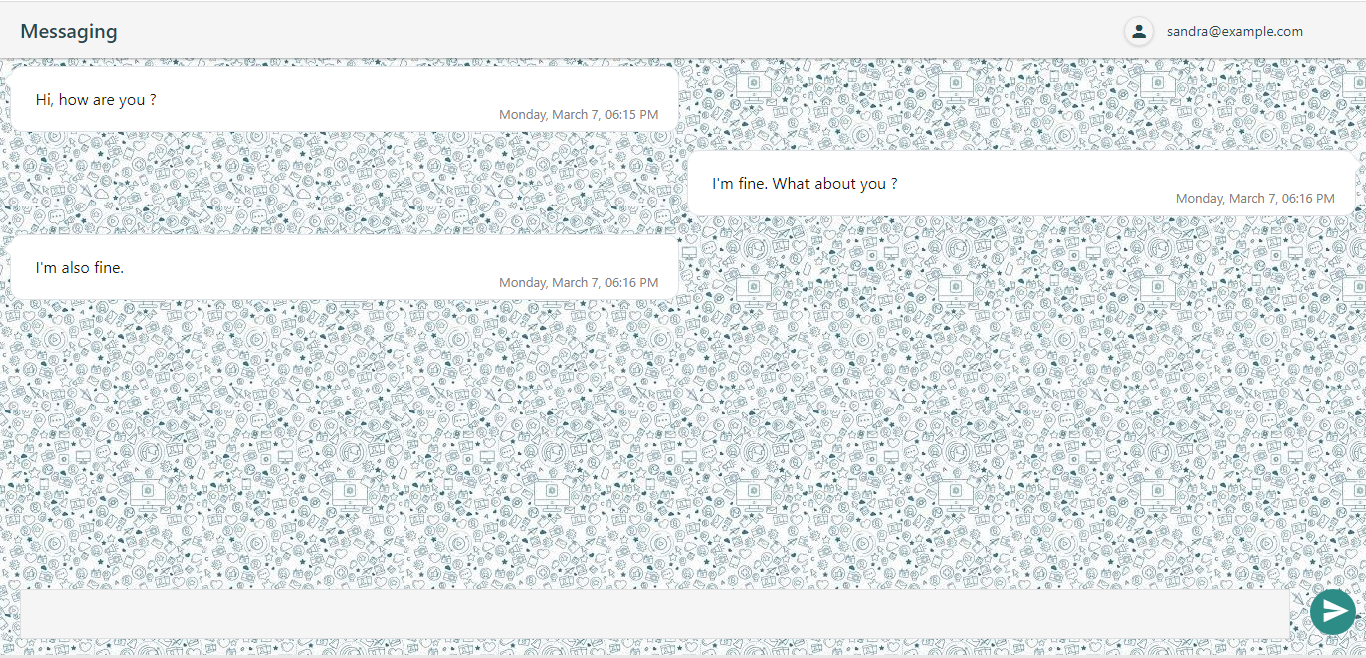
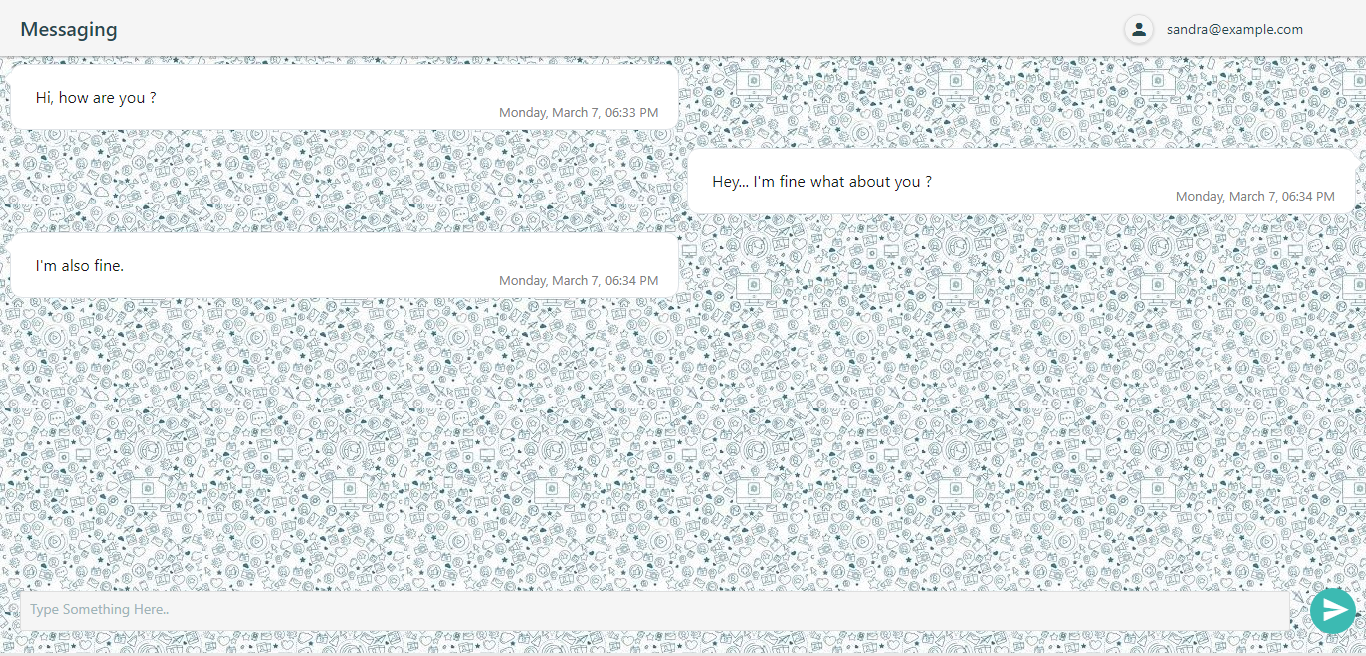
Add Placeholder in dx-text-area

diff --git a/frontend/src/app/pages/home/home.component.scss b/frontend/src/app/pages/home/home.component.scss
@@ -1,164 +1,163 @@
 :host {
-  ::ng-deep .dx-button-has-icon .dx-button-content {
-    padding: 13px !important;
-  }
-
-  ::ng-deep
-    dx-button.dx-widget.dx-button.dx-button-mode-contained.dx-button-default.dx-button-has-icon {
-    border-radius: 50%;
-  }
+     ::ng-deep .dx-button-has-icon .dx-button-content {
+        padding: 13px !important;
+    }
+     ::ng-deep dx-button.dx-widget.dx-button.dx-button-mode-contained.dx-button-default.dx-button-has-icon {
+        border-radius: 50%;
+    }
 }
 
 .dx-button-has-icon .dx-button-content {
-  padding: 103px !important;
+    padding: 103px !important;
 }
 
 .logos-container {
-  margin: 20px 0 40px 0;
-  text-align: center;
-  svg {
-    display: inline-block;
-  }
+    margin: 20px 0 40px 0;
+    text-align: center;
+    svg {
+        display: inline-block;
+    }
 }
 
 .devextreme-logo {
-  width: 200px;
-  height: 34px;
-  margin-bottom: 13px;
+    width: 200px;
+    height: 34px;
+    margin-bottom: 13px;
 }
+
 .messaging {
-  background: url(../../../assets/images/background.jpg);
-  height: calc(100vh - 60px);
-  position: relative;
-  background-attachment: fixed;
-  // overflow-y: hidden;
-  overflow-x: hidden;
+    background: url(../../../assets/images/background.jpg);
+    height: calc(100vh - 60px);
+    position: relative;
+    background-attachment: fixed;
+    // overflow-y: hidden;
+    overflow-x: hidden;
 }
 
 ::ng-deep i.dx-icon.icon.ion-md-send {
-  font-size: 30px;
-  position: relative;
-  top: -7px;
+    font-size: 30px;
+    position: relative;
+    top: -7px;
 }
 
 .angular-logo {
-  width: 220px;
-  height: 62px;
+    width: 220px;
+    height: 62px;
 }
 
 .plus {
-  margin: 15px 10px;
-  width: 22px;
-  height: 22px;
+    margin: 15px 10px;
+    width: 22px;
+    height: 22px;
 }
 
 :host-context(.screen-x-small) .logos-container {
-  svg {
-    width: 100%;
-    display: block;
-    &.plus {
-      margin: 0;
+    svg {
+        width: 100%;
+        display: block;
+        &.plus {
+            margin: 0;
+        }
     }
-  }
 }
 
 .float-bottom {
-  display: flex;
-  position: fixed;
-  z-index: 2;
-  width: 100vw !important;
-  bottom: 0;
-  margin-bottom: 20px;
-  width: calc(100vw - 250px);
-  margin-right: 20px;
+    display: flex;
+    position: fixed;
+    z-index: 2;
+    width: 100vw !important;
+    bottom: 0;
+    margin-bottom: 20px;
+    width: calc(100vw - 250px);
+    margin-right: 20px;
 }
 
 .receivedMessage {
-  color: #191919;
-  border-radius: 12px;
-  font-size: medium;
-  width: 49%;
-  position: relative;
-  padding: 20px;
-  background-color: white;
-  word-wrap: break-word;
-  white-space: pre-wrap;
-  margin: 10px;
-  border: 1px solid #dee2e6;
-  // -webkit-box-shadow: 4px 6px 10px -1px rgba(0, 0, 0, 0.6);
-  // -moz-box-shadow: 4px 6px 10px -1px rgba(0, 0, 0, 0.6);
-  // box-shadow: 4px 6px 10px -1px rgba(0, 0, 0, 0.6);
+    color: #191919;
+    border-radius: 12px;
+    font-size: medium;
+    width: 49%;
+    position: relative;
+    padding: 20px;
+    background-color: white;
+    word-wrap: break-word;
+    white-space: pre-wrap;
+    margin: 10px;
+    border: 1px solid #dee2e6;
+    // -webkit-box-shadow: 4px 6px 10px -1px rgba(0, 0, 0, 0.6);
+    // -moz-box-shadow: 4px 6px 10px -1px rgba(0, 0, 0, 0.6);
+    // box-shadow: 4px 6px 10px -1px rgba(0, 0, 0, 0.6);
 }
 
 .receivedMessage::before {
-  content: "";
-  position: absolute;
-  width: 10px;
-  height: 10px;
-  background-color: white;
-  top: 9px;
-  left: -6px;
-  transform: rotate(42deg);
-  border: 1px solid #dee2e6;
-  border-right: white;
-  border-top: white;
+    content: "";
+    position: absolute;
+    width: 10px;
+    height: 10px;
+    background-color: white;
+    top: 9px;
+    left: -6px;
+    transform: rotate(42deg);
+    border: 1px solid #dee2e6;
+    border-right: white;
+    border-top: white;
 }
 
 .send-message {
-  flex: 90%;
-  margin-right: 20px;
-  margin-left: 20px;
+    flex: 90%;
+    margin-right: 20px;
+    margin-left: 20px;
 }
 
 .myMessage {
-  float: right;
-  color: #191919;
-  border-radius: 12px;
-  font-size: medium;
-  width: 49%;
-  justify-self: flex-end;
-  position: relative;
-  right: 0;
-  padding: 20px;
-  background-color: white;
-  word-wrap: break-word;
-  white-space: pre-wrap;
-  margin: 10px;
-  border: 1px solid #dee2e6;
-  // box-shadow: -7px 4px 10px -1px rgba(0, 0, 0, 0.6);
-  // -webkit-box-shadow: -7px 4px 10px -1px rgba(0, 0, 0, 0.6);
-  // -moz-box-shadow: -7px 4px 10px -1px rgba(0, 0, 0, 0.6);
+    float: right;
+    color: #191919;
+    border-radius: 12px;
+    font-size: medium;
+    width: 49%;
+    justify-self: flex-end;
+    position: relative;
+    right: 0;
+    padding: 20px;
+    background-color: white;
+    word-wrap: break-word;
+    white-space: pre-wrap;
+    margin: 10px;
+    border: 1px solid #dee2e6;
+    // box-shadow: -7px 4px 10px -1px rgba(0, 0, 0, 0.6);
+    // -webkit-box-shadow: -7px 4px 10px -1px rgba(0, 0, 0, 0.6);
+    // -moz-box-shadow: -7px 4px 10px -1px rgba(0, 0, 0, 0.6);
 }
 
 .time-date {
-  float: right;
-  position: relative;
-  color: gray;
-  font-size: small;
-  top: 17px;
+    float: right;
+    position: relative;
+    color: gray;
+    font-size: small;
+    top: 17px;
 }
 
 .myMessage::before {
-  content: "";
-  position: absolute;
-  width: 10px;
-  height: 10px;
-  background-color: white;
-  top: 9px;
-  right: -6px;
-  transform: rotate(42deg);
-  border: 1px solid #dee2e6;
-  border-left: white;
-  border-bottom: white;
+    content: "";
+    position: absolute;
+    width: 10px;
+    height: 10px;
+    background-color: white;
+    top: 9px;
+    right: -6px;
+    transform: rotate(42deg);
+    border: 1px solid #dee2e6;
+    border-left: white;
+    border-bottom: white;
 }
 
-.message-tray{
-  display: flex;
-  flex-direction: column;
+.message-tray {
+    display: flex;
+    flex-direction: column;
 }
 
 .send-button {
-  margin-right: 10px;
-  position: relative;
-  // top: 8px;
+    margin-right: 10px;
+    position: relative;
+    top: -3px;
 }

diff --git a/frontend/src/app/pages/home/home.component.html b/frontend/src/app/pages/home/home.component.html
@@ -27,7 +27,7 @@
 
     <div class="float-bottom">
         <div class="send-message">
-            <dx-text-area [autoResizeEnabled]="true" [minHeight]="50" [maxHeight]="200" [(value)]="sendMessage">
+            <dx-text-area [autoResizeEnabled]="true" [minHeight]="40" [maxHeight]="200" [(value)]="sendMessage" placeholder="Type Something Here..">
             </dx-text-area>
         </div>
 
